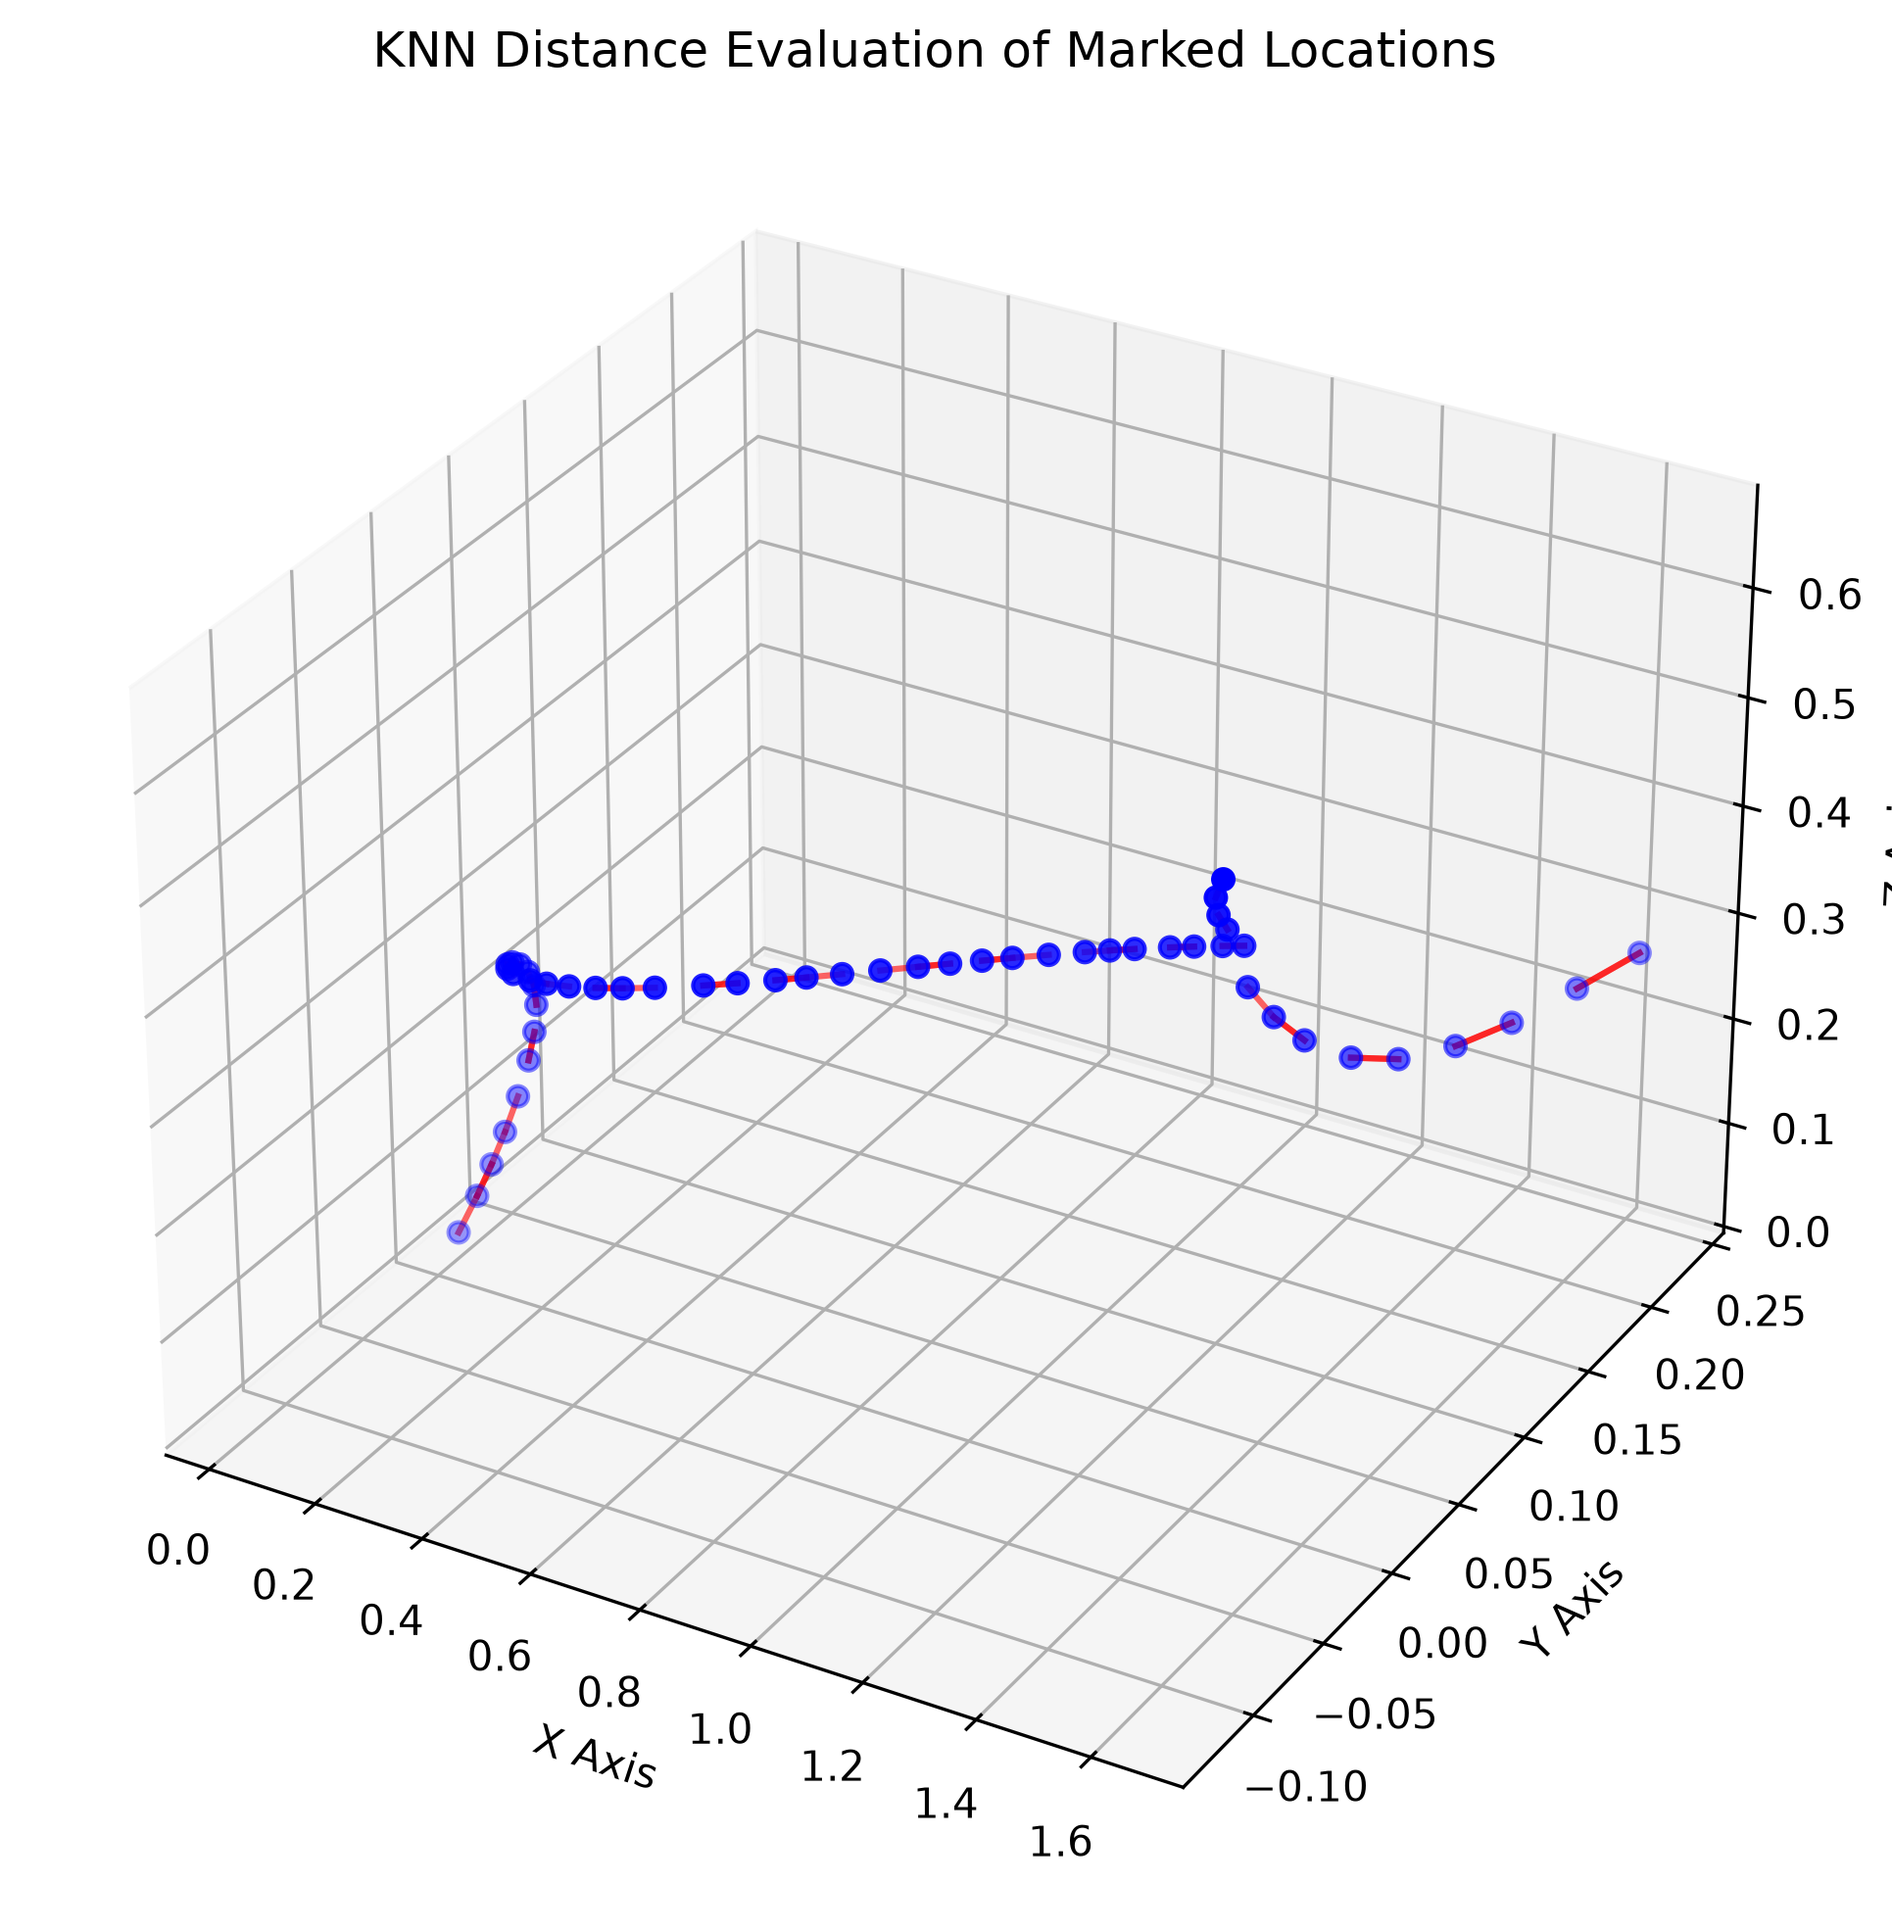
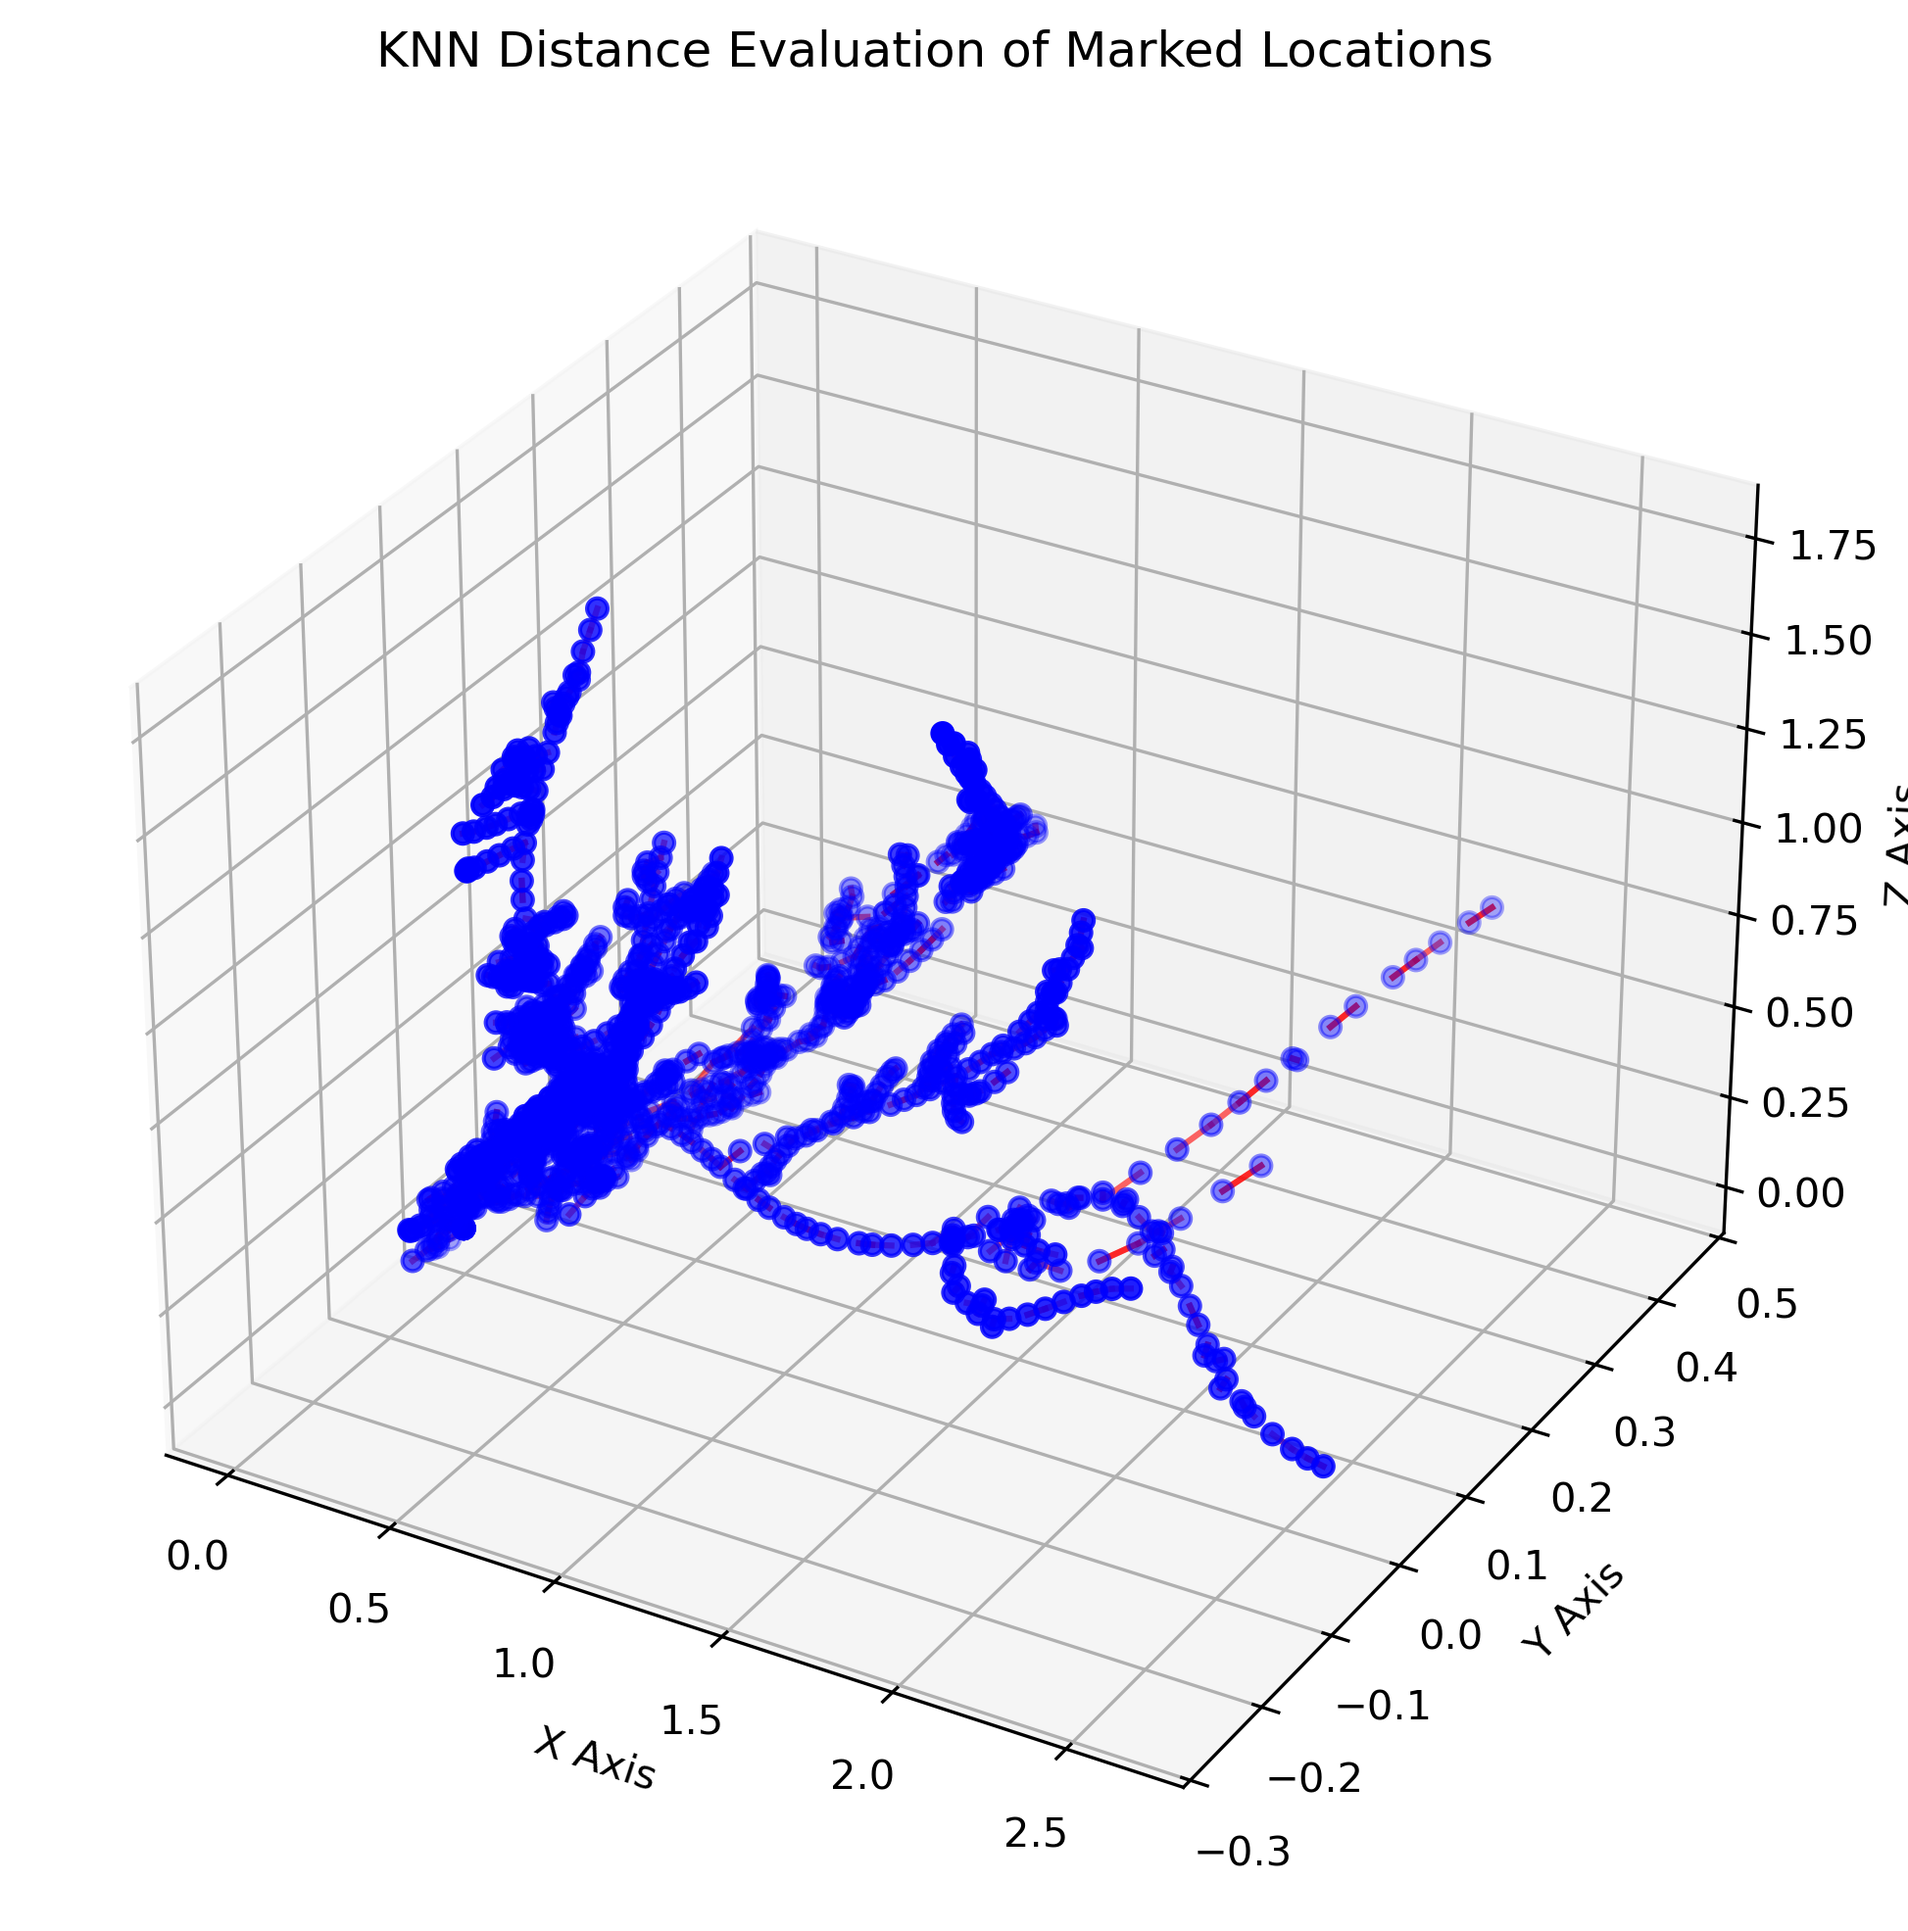
refactored code; need to fix getting the green sphere generation parameters

diff --git a/lpy_treesim/tie_prune/pruning_algo/prune_tree.py b/lpy_treesim/tie_prune/pruning_algo/prune_tree.py
@@ -1,38 +1,20 @@
-from lpy_treesim.tie_prune.pruning_algo.prune_random import prune_random
 from lpy_treesim.tie_prune.pruning_algo.prune_length import prune_length
 from lpy_treesim.tie_prune.pruning_algo.prune_primary import prune_primary
 from lpy_treesim.tie_prune.pruning_algo.prune_random import prune_random
 from lpy_treesim.tie_prune.pruning_algo.prune_dist import prune_dist
-from lpy_treesim.tie_prune.pruning_algo.three_d import run_three_d
-from lpy_treesim.tie_prune.pruning_algo.prune_at_end import end_prune
 
 def prune_tree(tree_sim_base, branch_hierarchy: dict, map_names_to_branches: dict):
-
-    
-    # Hide the list from previous years so prune_length doesn't bug over it
-    temp_marked = map_names_to_branches.pop('marked_locations', None)
 
     prune_primary(tree_sim_base=tree_sim_base, branch_hierarchy=branch_hierarchy, map_names_to_branches=map_names_to_branches)
     
     # Cut short any overly long branches
     prune_length(tree_sim_base=tree_sim_base, branch_hierarchy=branch_hierarchy, map_names_to_branches=map_names_to_branches)
 
-    prune_dist(tree_sim_base=tree_sim_base, branch_hierarchy=branch_hierarchy, map_names_to_branches=map_names_to_branches)
+    #prune_dist(tree_sim_base=tree_sim_base, branch_hierarchy=branch_hierarchy, map_names_to_branches=map_names_to_branches)
     
     # randomly prune to test pruning (playground for testing/learning purposes - comment out for actual algorithm)
-    prune_random(tree_sim_base=tree_sim_base, branch_hierarchy=branch_hierarchy, map_names_to_branches=map_names_to_branches)
-
-    # Catch the returned list directly from the function 
-    marked_locations = end_prune(tree_sim_base=tree_sim_base, branch_hierarchy=branch_hierarchy, map_names_to_branches=map_names_to_branches)
+    #prune_random(tree_sim_base=tree_sim_base, branch_hierarchy=branch_hierarchy, map_names_to_branches=map_names_to_branches)
 
     
-    if marked_locations:
-        run_three_d(prune_locations=marked_locations, k_neighbors=2, distance_threshold=0.1)
-        map_names_to_branches['marked_locations'] = marked_locations
-    elif temp_marked:
-        # If no new buds were found this year, put the old list back so make_n_trees.py can still find it at the end
-        map_names_to_branches['marked_locations'] = temp_marked
-    else:
-        print("No marked locations found for 3D evaluation.")
     
     

diff --git a/lpy_treesim/tie_prune/tie_prune_simulation_base.py b/lpy_treesim/tie_prune/tie_prune_simulation_base.py
@@ -30,6 +30,7 @@ from lpy_treesim.tree_models.base_tree.tree_wood_prototypes import BasicWood
 
 from lpy_treesim.tie_prune.pruning_algo.prune_tree import prune_tree
 from lpy_treesim.tie_prune.pruning_algo.prune_at_end import end_prune
+from lpy_treesim.tie_prune.pruning_algo.three_d import run_three_d
 
 
 class TreeSimulationBase(ABC):
@@ -93,6 +94,10 @@ class TreeSimulationBase(ABC):
 
         # For energy guide
         self.invalid_attractor_value = 1000
+
+        # For marking file after tree generation
+        self.prune_loc = []
+        self.radius = []
 
     @abstractmethod
     def generate_attractor_grids(self):
@@ -194,16 +199,20 @@ class TreeSimulationBase(ABC):
             # proceed to prune the tree
             prune_tree(self, branch_hierarchy=branch_hierarchy, map_names_to_branches=map_names_to_branches)
         
+        # Create spatial data structure
+        # TODO add fuction to manage in sim_config
+        if self.current_iteration == 166:
+            run_three_d(self, branch_hierarchy=branch_hierarchy, map_names_to_branches=map_names_to_branches)
+
+        # Pruning that is only done after the tree has been generated
+        if self.current_iteration == 166:
+            self.prune_loc, self.radius = end_prune(self,branch_hierarchy=branch_hierarchy, map_names_to_branches=map_names_to_branches)
+
         # The branches track what year they are so that growth rates can change per year
         if sim_config.do_year_increment(self.current_iteration):
             for items in branch_hierarchy.values():
                 for item in items:
                     item.add_year()
-
-        if self.current_iteration == 169:
-            end_prune(self, branch_hierarchy=branch_hierarchy, map_names_to_branches=map_names_to_branches)
-
-        #add data structure creation fuction here
 
         self.current_iteration = get_iteration_number() + 1
 

diff --git a/lpy_treesim/tie_prune/pruning_algo/prune_at_end.py b/lpy_treesim/tie_prune/pruning_algo/prune_at_end.py
@@ -10,9 +10,11 @@ def get_dist(L1, L2):
 
 # changed from (self, branch_hierarchy: dict, map_names_to_branches: dict):
 def end_prune(tree_sim_base, branch_hierarchy: dict, map_names_to_branches: dict):
-    buds = []
-    names_to_x = []
+    if PRINT: print("[end_prune] Function Called, end_prune() running...")
     branches = []
+    buds = []
+
+    names_to_x = []
     prune_locations = []
     
     for name, branch in map_names_to_branches.items():
@@ -23,9 +25,6 @@ def end_prune(tree_sim_base, branch_hierarchy: dict, map_names_to_branches: dict
             if "Side" in name: # "Tertiary" for envy and "Side" for ufo
                 branches.append(branch)
             if "Spur" in name:
-                branches.append(branch)
-            if "Primary" in name:
-                print("exists")
                 branches.append(branch)
     '''
     for bud in buds:
@@ -128,12 +127,8 @@ def end_prune(tree_sim_base, branch_hierarchy: dict, map_names_to_branches: dict
         else:
             print(f'[ERROR] Duplicate referance location')
 
-    map_names_to_branches['marked_locations'] = prune_locations
-    map_names_to_branches['radius'] = RADIUS - 0.005
-
     for name in names_to_x:
         del branch_hierarchy[name]
         del map_names_to_branches[name]
         
-    # Hand the locations back to prune_tree so the 3D plot can show what was cut
-    return prune_locations
+    return prune_locations, (RADIUS - 0.005)

diff --git a/lpy_treesim/tie_prune/pruning_algo/three_d.py b/lpy_treesim/tie_prune/pruning_algo/three_d.py
@@ -2,16 +2,22 @@ import matplotlib.pyplot as plt
 from scipy.spatial import KDTree
 import numpy as np
 
-def run_three_d(prune_locations, k_neighbors=2, distance_threshold=0.1):
+def run_three_d(tree_sim_base, 
+                branch_hierarchy, 
+                map_names_to_branches, 
+                k_neighbors=2, 
+                distance_threshold=0.1):
     
-    # Safety check: bail out if the list is empty so matplotlib doesn't crash
-    if not prune_locations:
-        print("No prune locations provided to three_d.")
-        return
+    all_buds = []
+    for name, branch in map_names_to_branches.items():
+        if "bud" in name:
+            all_buds.append(branch)
+    if len(all_buds) == 0:
+        print('[ERROR] NO BUD OBJECTS')
 
     # Unpack our custom location objects into a raw numpy array. 
     # SciPy is strict and only accepts pure numbers.
-    coords = np.array([[loc.x, loc.y, loc.z] for loc in prune_locations])
+    coords = np.array([[loc.start_loc.x, loc.start_loc.y, loc.start_loc.z] for loc in all_buds])
     
     # Cap 'k' just in case we have fewer buds than the requested neighbor count
     k = min(k_neighbors, len(coords))
@@ -63,4 +69,4 @@ def run_three_d(prune_locations, k_neighbors=2, distance_threshold=0.1):
     plt.savefig("knn_evaluation.png", dpi=300, bbox_inches='tight')
     print("Saved 3D plot to knn_evaluation.png")
     
-    plt.show()
+    #plt.show()

diff --git a/lpy_treesim/tree_generation/make_n_trees.py b/lpy_treesim/tree_generation/make_n_trees.py
@@ -127,15 +127,16 @@ def main():
                                 b_use_uv=b_use_uv)
             logger.info(f"Wrote mesh to {usd_path}")
         
+        '''
         #Create path for marked locations file and load generated tree mesh
         mod_path = str(args.output_dir)+"/lpy_ufo_00000_vc.obj" #mesh path
         mesh_existing = trimesh.load(mod_path)
         all_meshes = [mesh_existing]
 
         #mark locations, with transparent sphere, specified in prune_at_end.py
-        for location in lsb.map_name_instance['marked_locations']:
+        for location in lsb.prune_loc:
             #print(location)
-            marker = trimesh.creation.icosphere(subdivisions=2, radius=lsb.map_name_instance['radius'])
+            marker = trimesh.creation.icosphere(subdivisions=2, radius=lsb.radius)
             marker.visual.face_colors = [0, 255, 0, 35]
             marker.visual = marker.visual.to_texture()
             marker.visual.material.alphaMode = "BLEND"
@@ -145,7 +146,7 @@ def main():
         #combine meshes and save file
         combined_mesh = trimesh.util.concatenate(all_meshes)
         combined_mesh.export(str(args.output_dir)+"/marked_location.obj")
-        
+        '''
 
         if args.meta_data:
             import json
